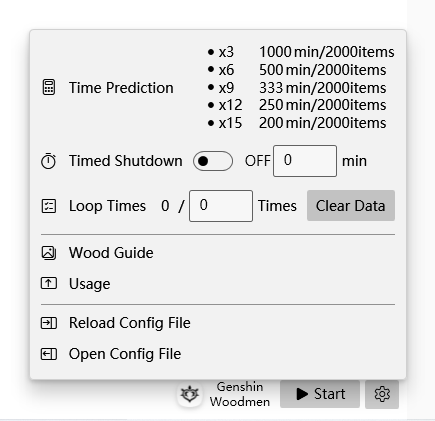
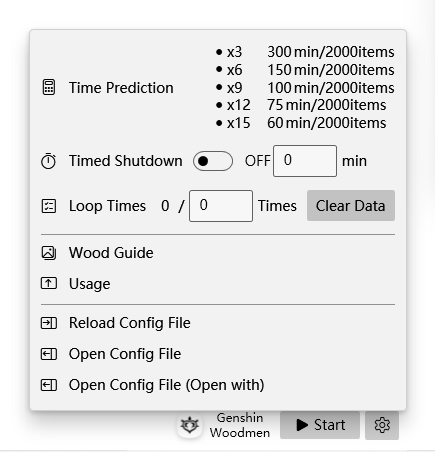
Fixed forecast calculation errors

diff --git a/src/GenshinWoodmen/Views/MainWindow.xaml b/src/GenshinWoodmen/Views/MainWindow.xaml
@@ -214,6 +214,16 @@
                                     <TextBlock Text="&#xe8a0;" FontSize="8" FontFamily="{StaticResource SegoeFluent}"/>
                                 </MenuItem.Icon>
                             </MenuItem>
+                            <MenuItem Header="{DynamicResource OpenWithConfigFile}" Command="{Binding ConfigOpenWithCommand}">
+                                <MenuItem.ToolTip>
+                                    <TextBlock>
+                                        <Run Text="{DynamicResource OpenConfigFileDetail}"/>
+                                    </TextBlock>
+                                </MenuItem.ToolTip>
+                                <MenuItem.Icon>
+                                    <TextBlock Text="&#xe8a0;" FontSize="8" FontFamily="{StaticResource SegoeFluent}"/>
+                                </MenuItem.Icon>
+                            </MenuItem>
                         </ContextMenu>
                     </Button.ContextMenu>
                     <i:Interaction.Behaviors>

diff --git a/src/GenshinWoodmen/Resources/Languages/jp.xaml b/src/GenshinWoodmen/Resources/Languages/jp.xaml
@@ -11,7 +11,8 @@
     <s:String x:Key="TopMost">最上位に表示</s:String>
     <s:String x:Key="Exit">終了</s:String>
     <s:String x:Key="WoodGuide">伐採ガイド</s:String>
-    <s:String x:Key="OpenConfigFile">配置ファイルをオープン</s:String>
+    <s:String x:Key="OpenConfigFile">配置ファイルを開く</s:String>
+    <s:String x:Key="OpenWithConfigFile">配置ファイルを開く (方法を選択して開く)</s:String>
     <s:String x:Key="ReloadConfigFile">配置ファイルをリロード</s:String>
     <s:String x:Key="VisitWebsite">ウェブサイトを開く</s:String>
     <s:String x:Key="TimePredictionDetail">便利アイテム「王樹の加護」のカバー範囲に獲得できる木材の数を合わせて計算、実際的に使い時間は予測数値より数分遅れる。種類毎に木材の一日の獲得上限は2000アイテムまで。</s:String>

diff --git a/src/GenshinWoodmen/Resources/Languages/en-us.xaml b/src/GenshinWoodmen/Resources/Languages/en-us.xaml
@@ -12,6 +12,7 @@
     <s:String x:Key="Exit">Exit</s:String>
     <s:String x:Key="WoodGuide">Wood Guide</s:String>
     <s:String x:Key="OpenConfigFile">Open Config File</s:String>
+    <s:String x:Key="OpenWithConfigFile">Open Config File (Open with)</s:String>
     <s:String x:Key="ReloadConfigFile">Reload Config File</s:String>
     <s:String x:Key="VisitWebsite">Visit Website</s:String>
     <s:String x:Key="TimePredictionDetail">The actual time will be slightly greater than this value for several minutes, calculated according to the maximum amount of wood that can be obtained from the one-time coverage of the "The Boon of the Elder Tree" small prop. The maximum daily acquisition of each kind of wood is 2000.</s:String>

diff --git a/src/GenshinWoodmen/Resources/Languages/zh-cn.xaml b/src/GenshinWoodmen/Resources/Languages/zh-cn.xaml
@@ -12,6 +12,7 @@
     <s:String x:Key="Exit">退出</s:String>
     <s:String x:Key="WoodGuide">伐木指南</s:String>
     <s:String x:Key="OpenConfigFile">打开配置文件</s:String>
+    <s:String x:Key="OpenWithConfigFile">打开配置文件 (重设方式打开)</s:String>
     <s:String x:Key="ReloadConfigFile">重载配置文件</s:String>
     <s:String x:Key="VisitWebsite">访问网站</s:String>
     <s:String x:Key="TimePredictionDetail">按照「王树瑞佑」小道具一次覆盖范围能获取最大木头数量计算，实际时间会稍大于该值数分钟。每日每种木材的获取上限为2000个。</s:String>

diff --git a/src/GenshinWoodmen/ViewModels/MainViewModel.cs b/src/GenshinWoodmen/ViewModels/MainViewModel.cs
@@ -13,7 +13,6 @@ using System.Windows;
 using System.Windows.Controls;
 using System.Windows.Input;
 using System.Windows.Media;
-using Keys = System.Windows.Forms.Keys;
 
 namespace GenshinWoodmen.ViewModels
 {
@@ -23,7 +22,7 @@ namespace GenshinWoodmen.ViewModels
         public double Left => SystemParameters.WorkArea.Right;
         public double Top => SystemParameters.WorkArea.Bottom;
 
-        public int ForecastX3 => (int)(((Settings.DelayLogin / 1000d) + (Settings.DelayLaunch / 1000d) + 10d) * 2000d / 60d);
+        public int ForecastX3 => (int)(((Settings.DelayLogin / 1000d) + (Settings.DelayLaunch / 1000d) + 7d) * (2000d / 3d) / 60d);
         public int ForecastX6 => ForecastX3 / 2;
         public int ForecastX9 => ForecastX3 / 3;
         public int ForecastX12 => ForecastX3 / 4;
@@ -107,6 +106,23 @@ namespace GenshinWoodmen.ViewModels
                 {
                     FileName = "cmd.exe",
                     Arguments = $"/c \"{SettingsManager.Path}\"",
+                    UseShellExecute = false,
+                    CreateNoWindow = true,
+                });
+            }
+            catch
+            {
+            }
+        });
+
+        public ICommand ConfigOpenWithCommand => new RelayCommand(async () =>
+        {
+            try
+            {
+                _ = Process.Start(new ProcessStartInfo()
+                {
+                    FileName = "openwith.exe",
+                    Arguments = $"\"{SettingsManager.Path}\"",
                     UseShellExecute = false,
                     CreateNoWindow = true,
                 });

diff --git a/src/GenshinWoodmen/Core/LaunchCtrl.cs b/src/GenshinWoodmen/Core/LaunchCtrl.cs
@@ -86,12 +86,12 @@ namespace GenshinWoodmen.Core
                 NativeMethods.Focus(hwnd);
                 NativeMethods.CursorCenterPos(hwnd);
                 UserSimulator.Input.Keyboard.KeyPress(VirtualKeyCode.ESCAPE);
-                await JiggingProcessor.Delay(2000);
+                await JiggingProcessor.Delay(1000);
                 RECT rect = NativeMethods.GetWindowRECT(hwnd);
                 NativeMethods.SetCursorPos(rect.Left + 20, rect.Bottom - SystemInformation.CaptionHeight - 10);
                 await JiggingProcessor.Delay(100);
                 UserSimulator.Input.Mouse.LeftButtonClick(); // ExitButton
-                await JiggingProcessor.Delay(2000);
+                await JiggingProcessor.Delay(1000);
                 NativeMethods.SetCursorPos(rect.Left + (int)((rect.Right - rect.Left) / 2d) + 70, rect.Top + (int)((rect.Bottom - rect.Top) / 2d) + 170);
                 await JiggingProcessor.Delay(100);
                 UserSimulator.Input.Mouse.LeftButtonClick(); // OKButton

diff --git a/src/GenshinWoodmen/Core/JiggingProcessor.cs b/src/GenshinWoodmen/Core/JiggingProcessor.cs
@@ -80,7 +80,7 @@ namespace GenshinWoodmen.Core
                         UserSimulator.Input.Keyboard.KeyPress(VirtualKeyCode.VK_Z);
                         TraceStatus("Pressed KeyZ");
                         Count();
-                        await Delay(2000);
+                        await Delay(200);
                         TraceStatus("Got Wood");
                     }
                     else
@@ -108,9 +108,9 @@ namespace GenshinWoodmen.Core
                         UserSimulator.Input.Keyboard.KeyPress(VirtualKeyCode.VK_Z);
                         TraceStatus("Pressed KeyZ");
                         Count();
-                        await Delay(2000);
+                        await Delay(200);
                         TraceStatus("Got Wood");
-                        await Delay(1000);
+                        await Delay(100);
                         TraceStatus("Logout");
                         await LaunchCtrl.Logout();
                         lastAutoLogout = true;

diff --git a/src/GenshinWoodmen/Version.cs b/src/GenshinWoodmen/Version.cs
@@ -4,6 +4,6 @@
     {
         public static string Name => "genshin-woodmen";
         public static string Url => "https://github.com/emako/genshin-woodmen";
-        public static string Version => "release/v1.0";
+        public static string Version => "v1.1";
     }
 }

diff --git a/src/GenshinWoodmen/Core/NativeMethods.cs b/src/GenshinWoodmen/Core/NativeMethods.cs
@@ -89,6 +89,7 @@ namespace GenshinWoodmen.Core
             }
         }
 
+        [Obsolete]
         public static void CursorCenterPos()
         {
             _ = SetCursorPos((int)(SystemParameters.WorkArea.Right / 2d), (int)(SystemParameters.WorkArea.Bottom / 2d));
